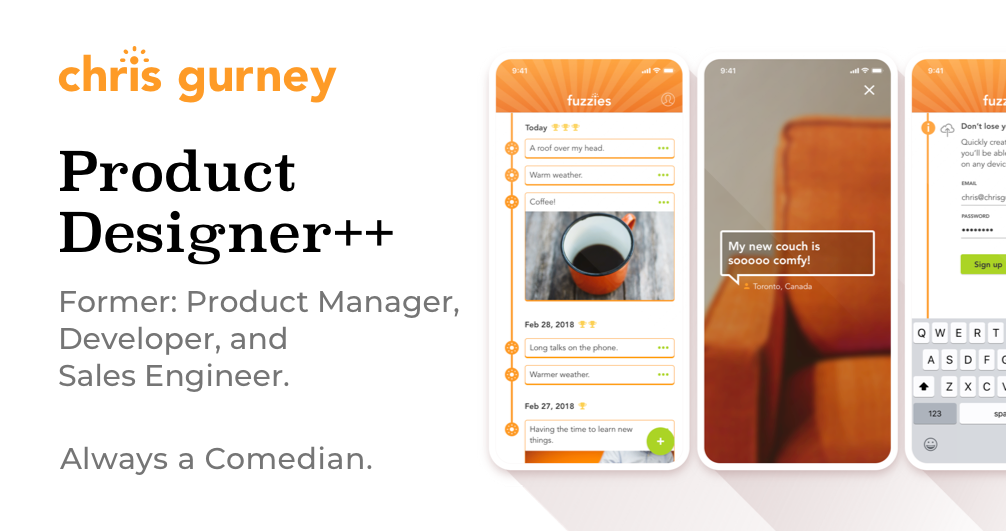
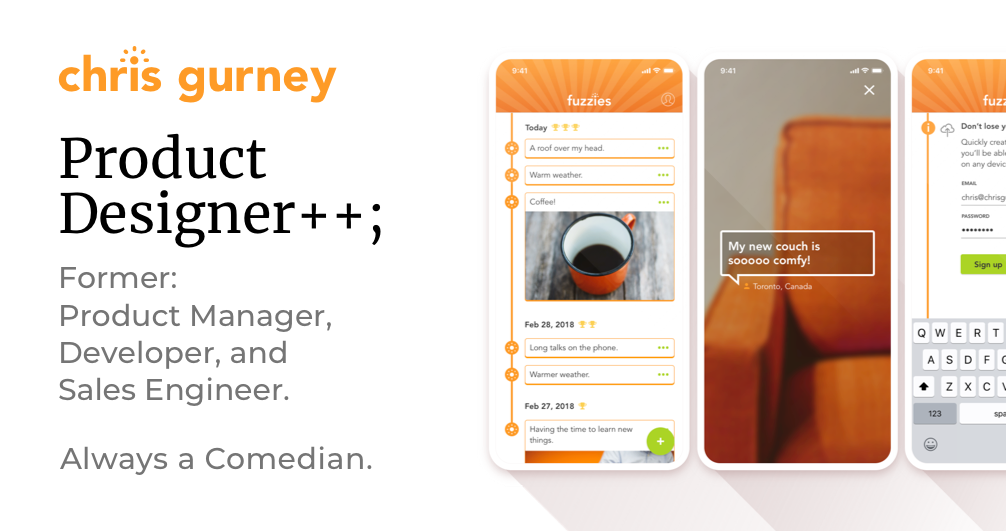
Font spacing adjustments; brought serif typeface inline with web site's.

Changed region(s): [[0.0616, 0.5122, 0.4622, 0.7834], [0.0616, 0.2411, 0.4006, 0.5122]]

diff --git a/src/about.html b/src/about.html
@@ -10,9 +10,9 @@
             <h1 class="text-uppercase">
               <strong>Designer Plus&nbsp;Plus</strong>
             </h1>
-            <p>I'm a <strong>product designer</strong> who has toured the tech industry with a background in computer science, across a broad range of roles.</p>
+            <p>I'm a <strong>product designer</strong> who has toured the tech industry with a <strong>background in computer science</strong>, across a broad range of roles.</p>
             <p>Along the way, I’ve discovered my underlying passion is in the design and crafting of products that make peoples' lives better.</p>
-            <p>My friends would say I’m fascinated with chickens. I’m an aspiring improvisor, and think work should be meaningful and fun.</p>
+            <p>I’m an aspiring improvisor, and think work should be meaningful and fun. My friends would say I’m fascinated with <strong>chickens</strong>.</p>
           </div>
         </div>
       </div>
@@ -118,6 +118,7 @@
               <p>
                 Ask me about improv, <strong>chickens</strong>, and building a fun workplace culture.
               </p>
+              <img class="sr-icons" src="images/chicken-light.svg" alt="chicken caricature"/>
             </div>
           </div>
           <div class="col-md-8 col-12 px-0 order-md-2 order-1 d-none d-sm-block">

diff --git a/src/css/creative.css b/src/css/creative.css
@@ -214,15 +214,22 @@ header.about {
 
 header.about h1 {
 	font-size: 4rem;
+	line-height: 4rem;
+	padding-bottom: 1rem;
 }
 
 header.about p {
 	font-weight: 300;
 }
 
+header.about p > strong {
+	font-weight: 600;
+}
+
 @media (max-width: 992px) {
 	header.about h1 {
 		font-size: 3rem;
+		line-height: 3rem;		
 	}	
 }
 @media (max-width: 768px) {
